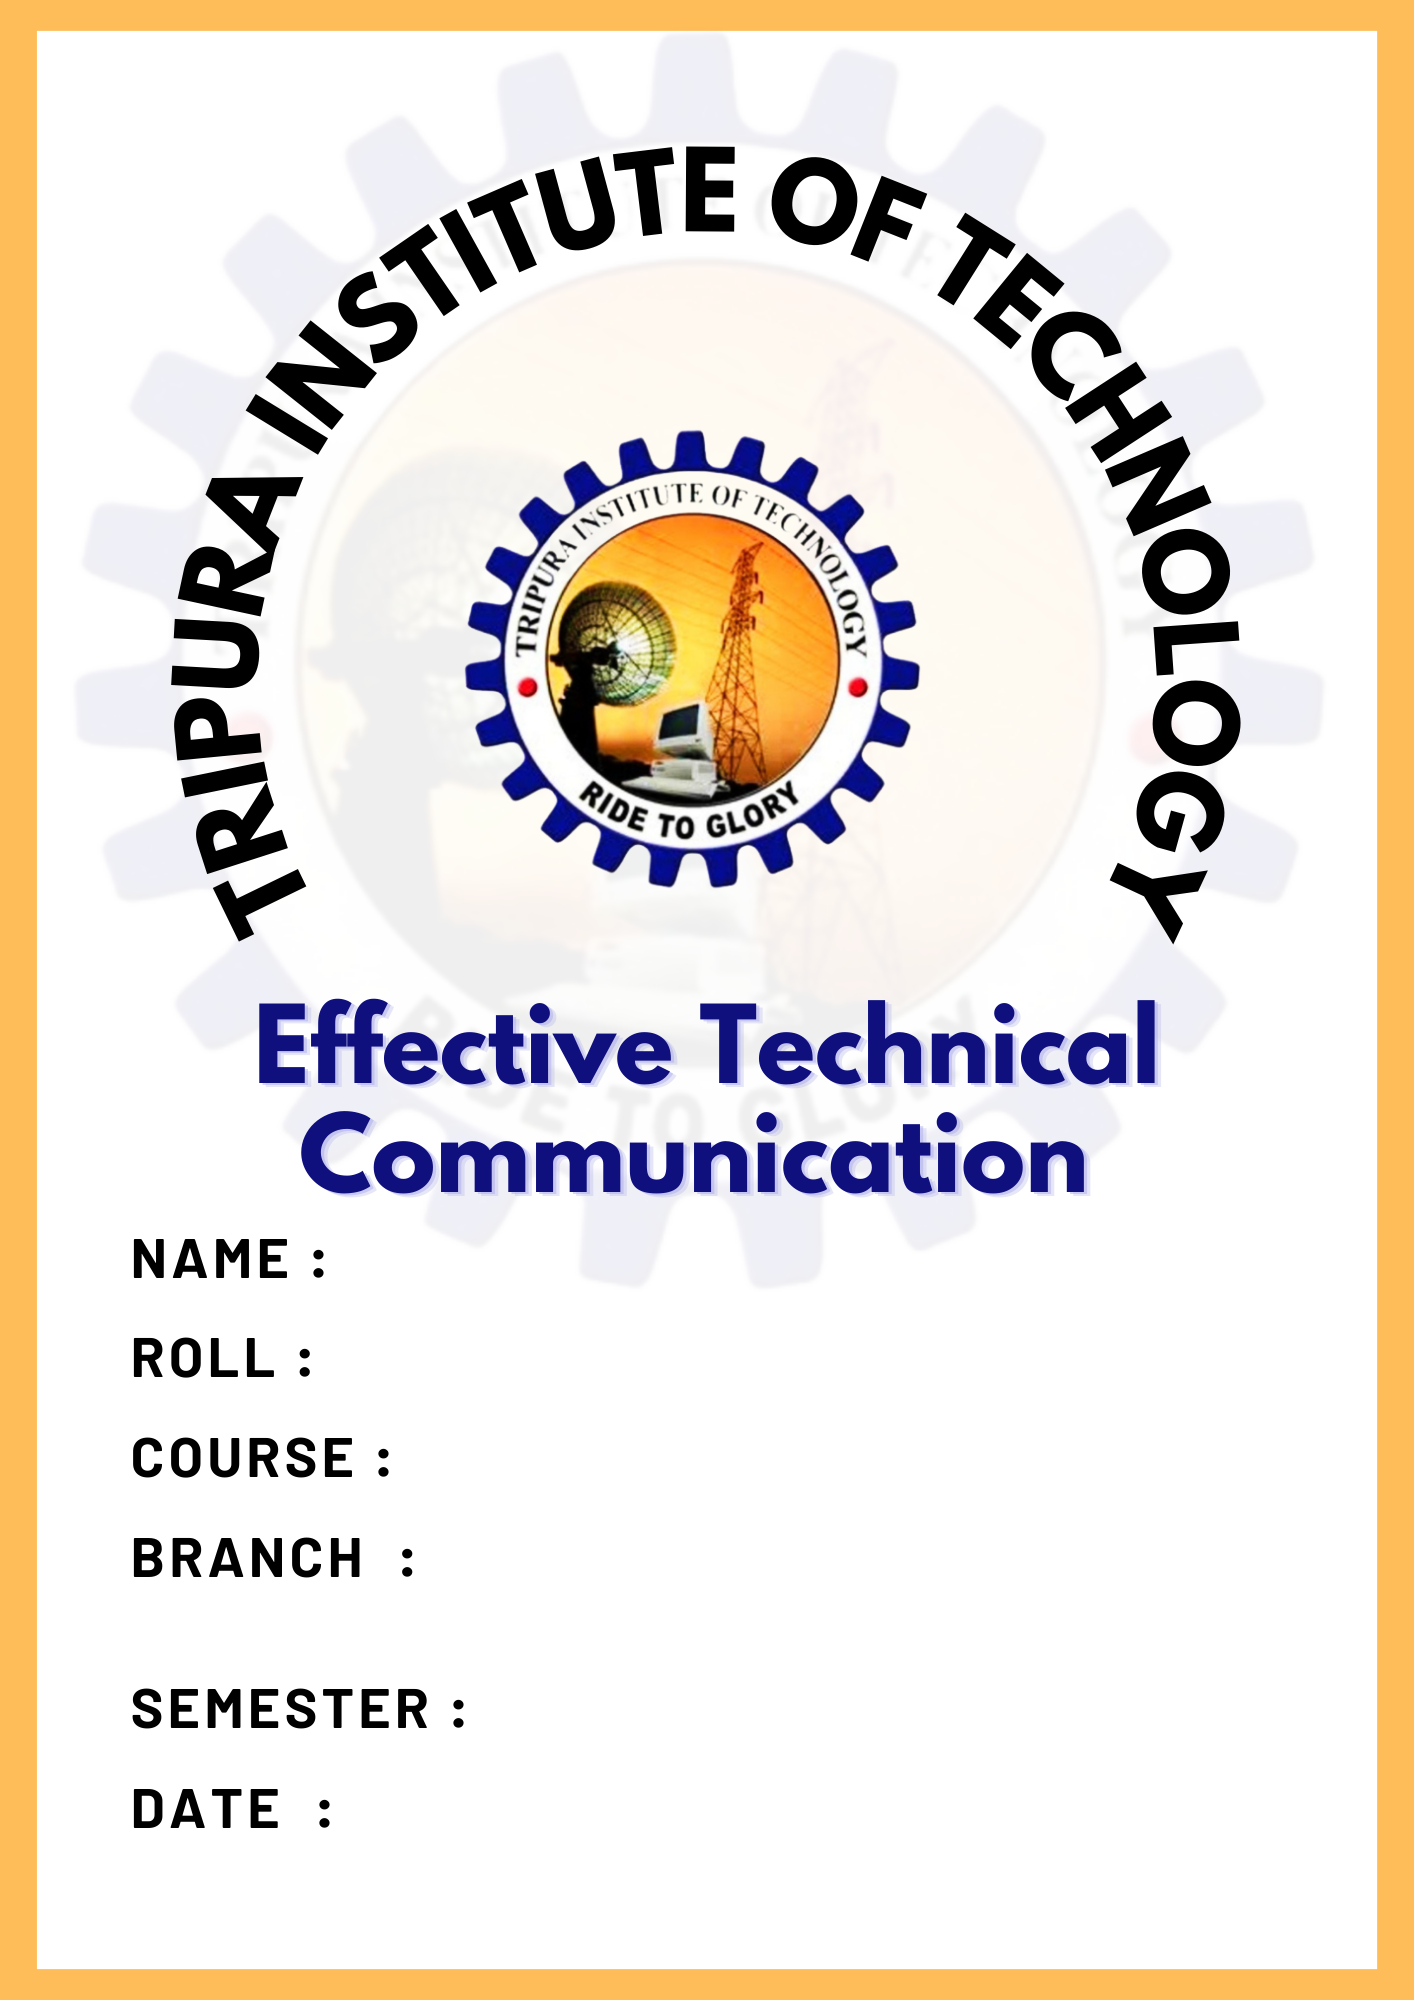
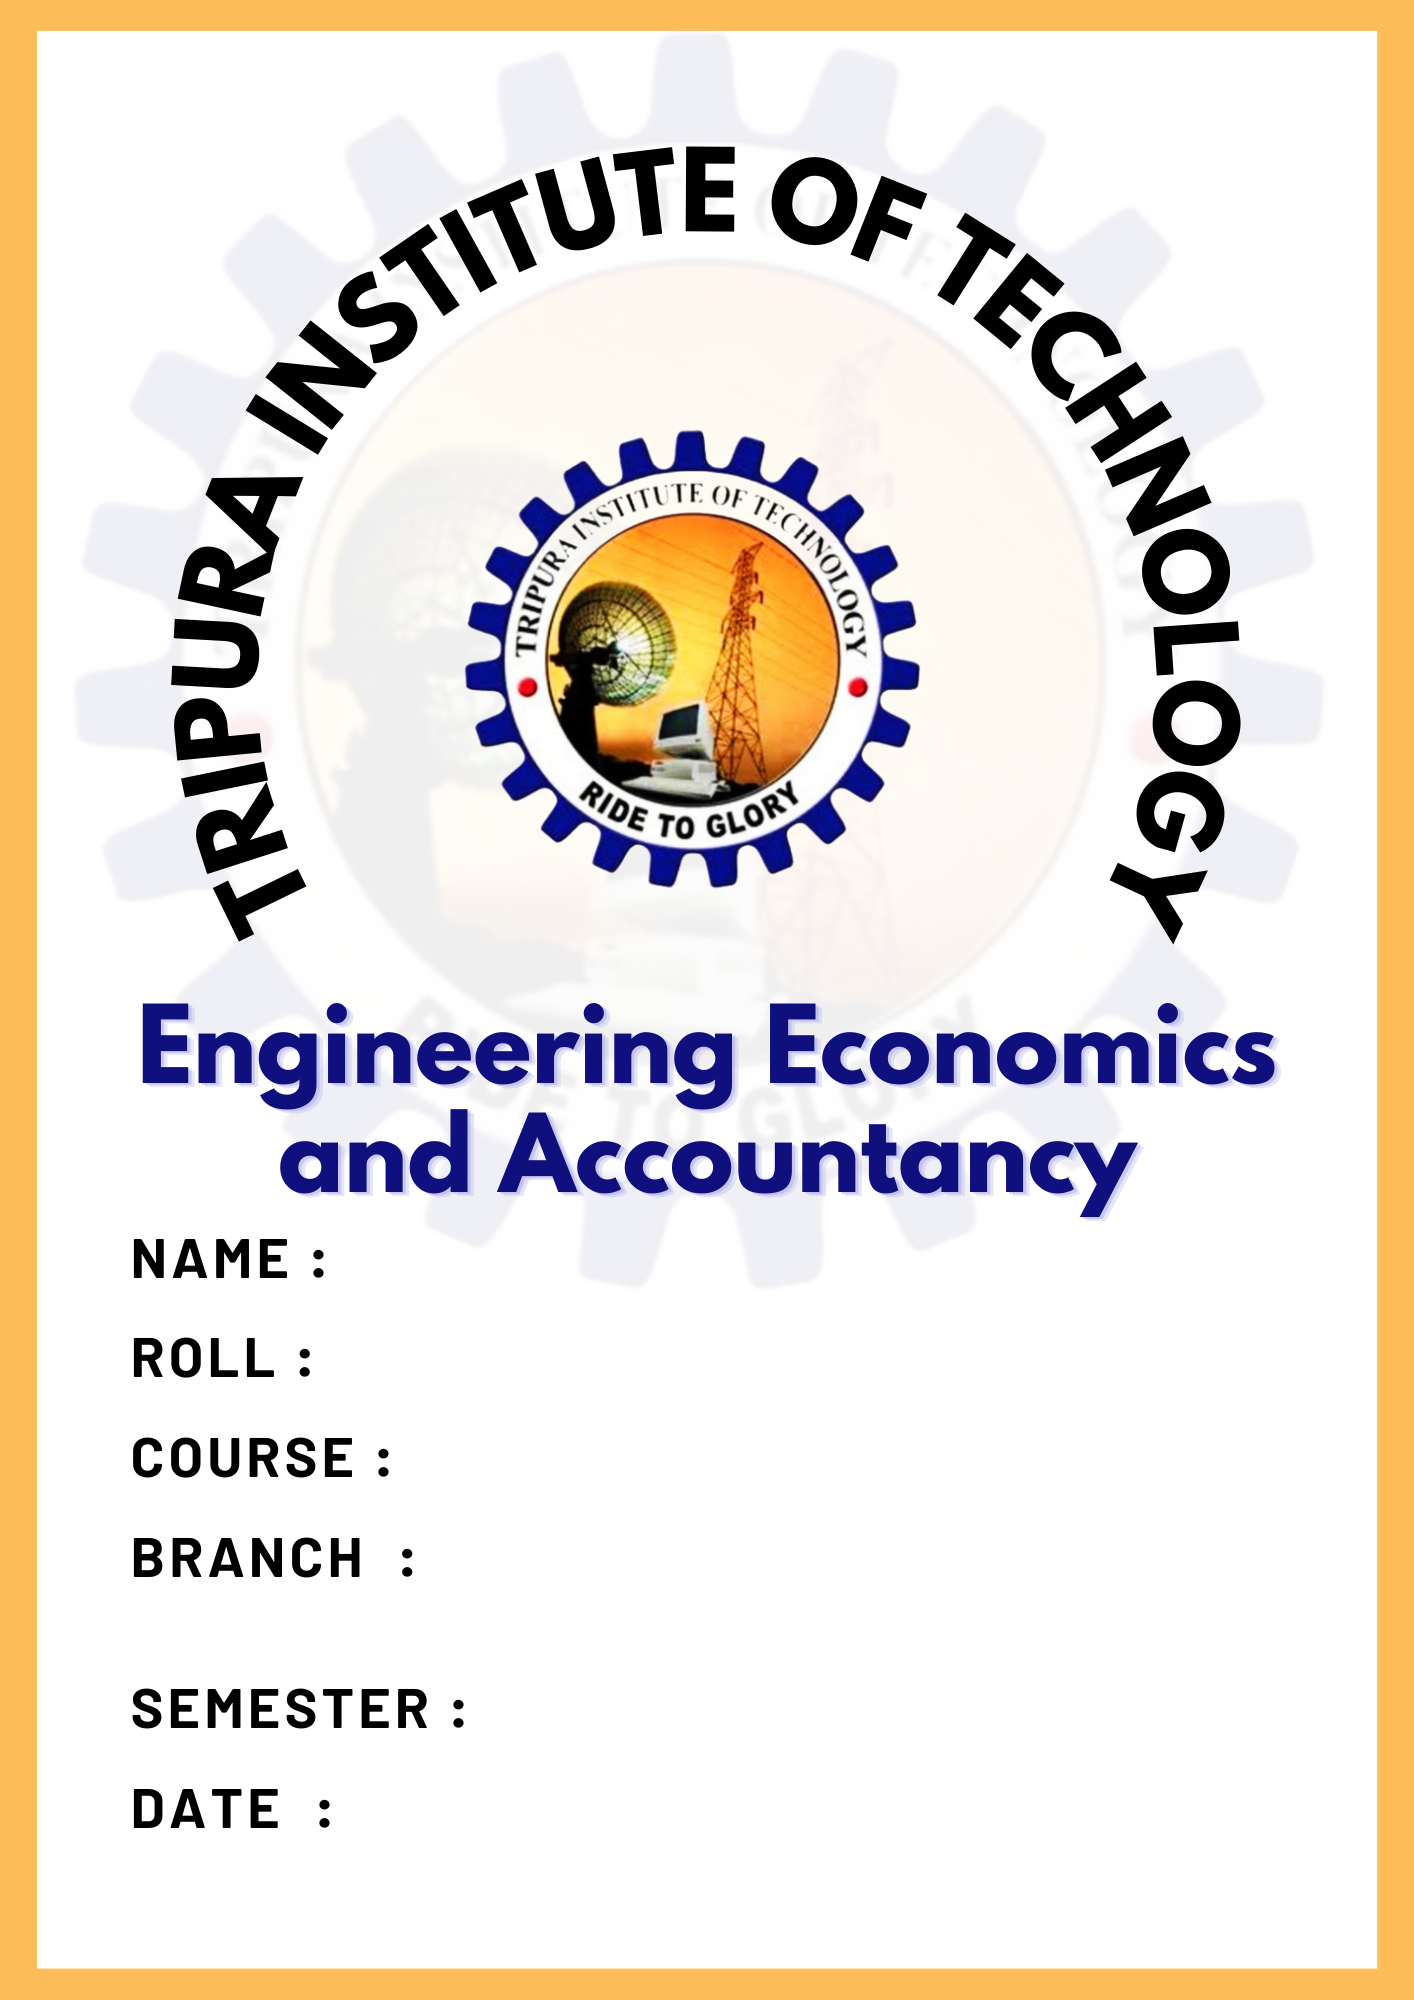
Changes According To 4th Sem

Changed region(s): [[0.0934, 0.496, 0.9024, 0.62]]

diff --git a/index.php b/index.php
@@ -23,17 +23,16 @@
             <input type="date" name="date" class="form-control" id="formGroupExampleInput2" placeholder="Another input">
         </div>
         <select class="form-select" aria-label="Default select example" name="subject">
-            <option value="1">Effective Technical Communication </option>
-            <option value="2">Mathematics-III</option>
-            <option value="3">Biology for Engineers </option>
-            <option value="4"> Engineering Mechanics</option>
-            <option value="5"> Digital Logic & Microprocessor. </option>
-            <option value="6"> Data Structure & Algorithm </option>
-            <option value="7"> Java Programming Lab </option>
-            <option value="8"> Data Structure Lab </option>
-            <option value="9">Digital Electronics & Microprocessor Lab </option>
-            <option value="10">Indian Constitution </option>
-
+            <option value="1">Engineering Economics and Accountancy</option>
+            <option value="2">Universal Human Values-II</option>
+            <option value="3">Discrete Mathematics </option>
+            <option value="4">Computer Organization & Architecture </option>
+            <option value="5"> Operating Systems </option>
+            <option value="6">Object Oriented Programming </option>
+            <option value="7">IT Workshop (Python/R) </option>
+            <option value="8"> Operating System Lab </option>
+            <option value="9">Object Oriented Programming Lab </option>
+            <option value="10">Essence of Indian Knowledge Tradition </option>
         </select>
         <button type="submit" name="create">Create</button>
     </form>

diff --git a/pdf/generate.php b/pdf/generate.php
@@ -146,7 +146,7 @@ if (isset($_POST['create'])) {
 
     // $pdf->Cell(70, 10, "       SEMESTER  :", 0, 0, 'L');
     $pdf->Cell(70, 5, "       ", 0, 0, 'L');
-    $pdf->Cell(110,12, '3RD SEMESTER', 0, 1, 'L');
+    $pdf->Cell(110,12, '4TH SEMESTER', 0, 1, 'L');
     $pdf->Cell(180, 5, '', 0, 1, 'L');
 
     // $pdf->Cell(70, 10, "       DATE  :", 0, 0, 'L');
